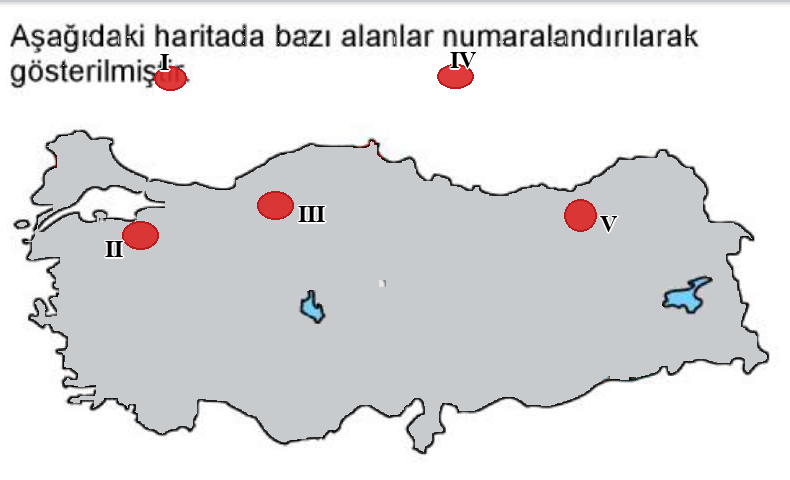
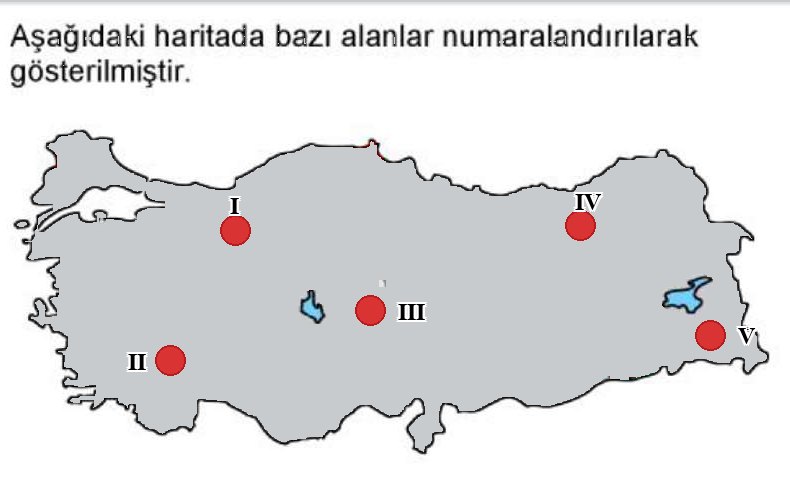
fix: 2022 EKYS Soru 7 haritasinda kirmizi alanlar ve Roma rakamlari kusursuz koordinatlara yerlestirildi

diff --git a/sw.js b/sw.js
@@ -1,5 +1,5 @@
 // EKYS 2027 Service Worker (Network First Strategy - Canlı Otomatik Güncelleme)
-const CACHE_NAME = 'ekys-2027-v15.0';
+const CACHE_NAME = 'ekys-2027-v16.0';
 
 self.addEventListener('install', (e) => {
   self.skipWaiting();
